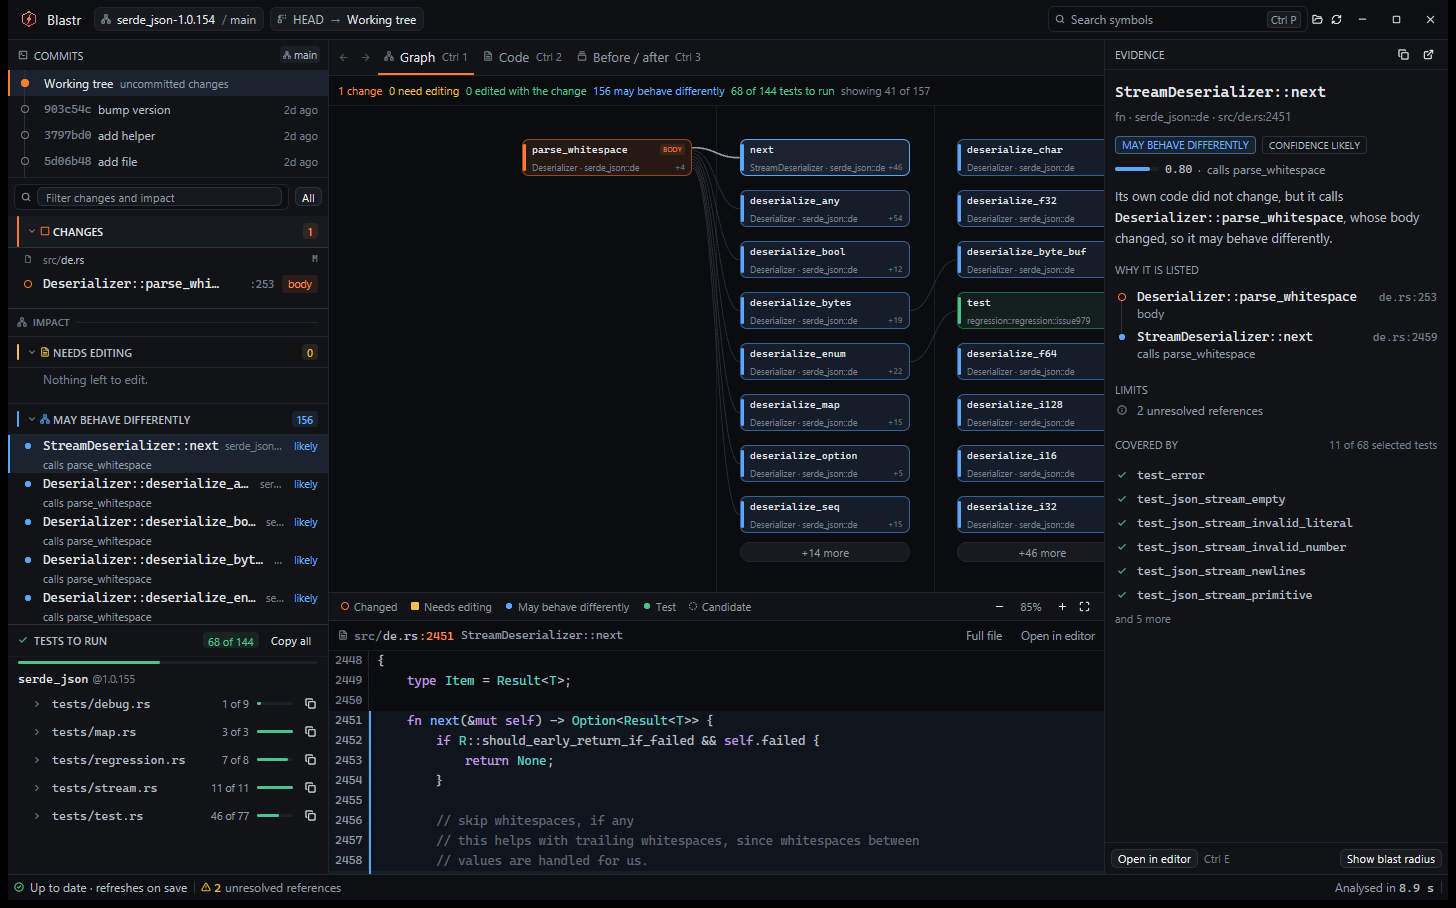
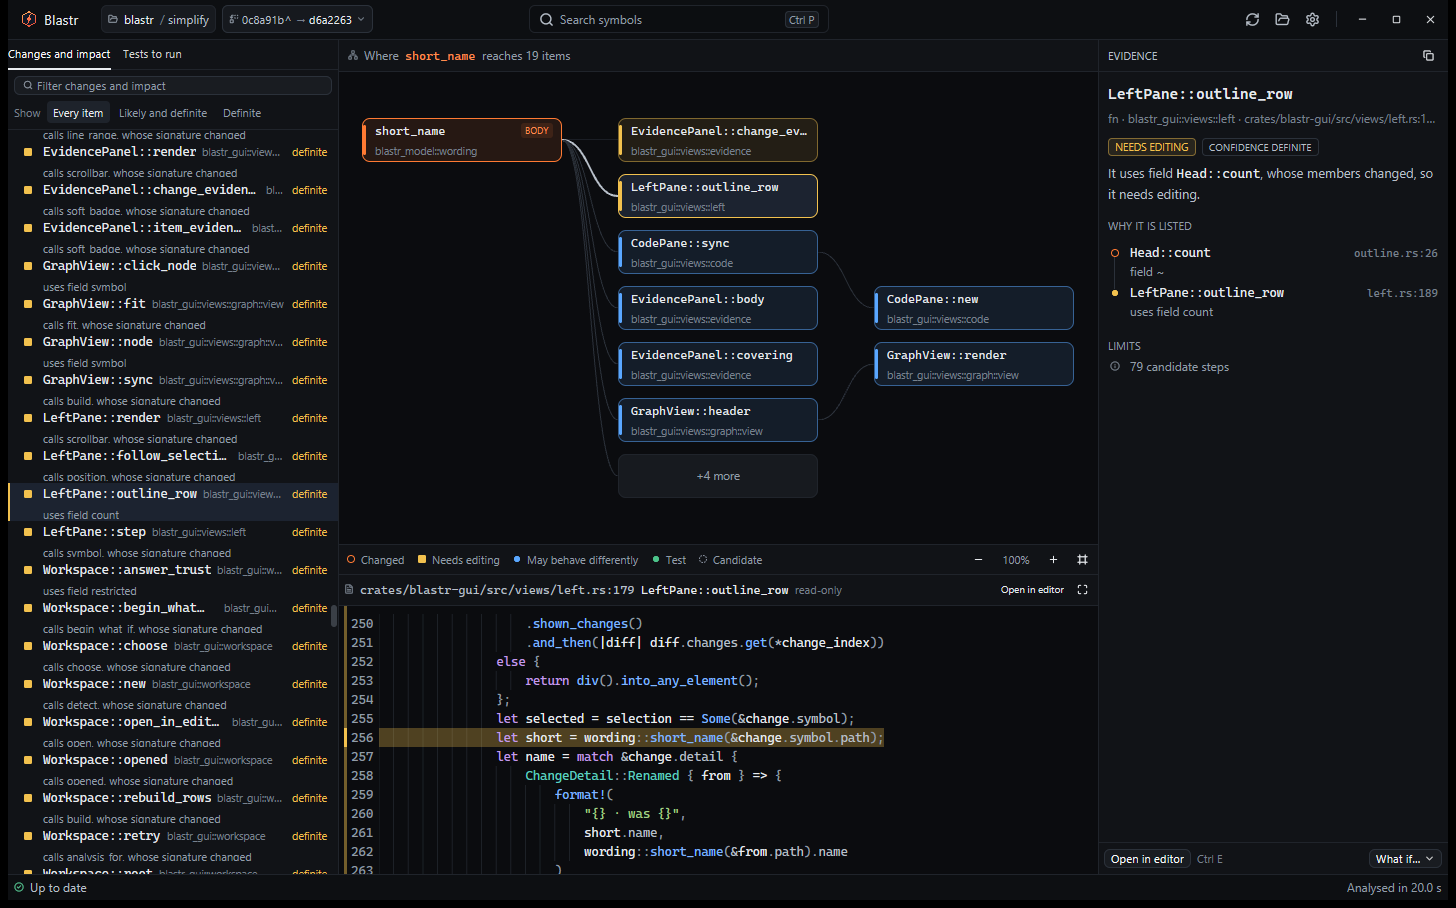
Show the source of a hypothetical change, which has no diff

diff --git a/crates/blastr-gui/src/views/code.rs b/crates/blastr-gui/src/views/code.rs
@@ -150,12 +150,12 @@ impl CodePane {
             let texts = cx.background_executor().spawn(async move {
                 let base = read_source(&root, &comparison.base, &old_file).unwrap_or_default();
                 let head = read_source(&root, &comparison.head, &file).unwrap_or_default();
-                patch(&old_file, &file, &base, &head)
+                (patch(&old_file, &file, &base, &head), head)
             });
             self.content = Content::Loading;
             self.read = cx.spawn_in(window, async move |this, cx| {
-                let patch = texts.await;
-                this.update(cx, |this, cx| {
+                let (patch, head) = texts.await;
+                this.update_in(cx, |this, window, cx| {
                     let files = DiffFile::parse(&patch).unwrap_or_default();
                     let path = files
                         .first()
@@ -170,6 +170,20 @@ impl CodePane {
                         span.start_line as usize,
                         span.end_line.max(span.start_line) as usize,
                     );
+                    // A hypothetical change has no diff: show its source.
+                    if files.is_empty() {
+                        let lines = (span.start_line, span.end_line);
+                        this.show_source(
+                            head,
+                            theme::CHANGED,
+                            lines,
+                            &[],
+                            span.start_line,
+                            window,
+                            cx,
+                        );
+                        return;
+                    }
                     self_decorate(this, path.clone(), side, start, end);
                     this.diff.update(cx, |state, cx| {
                         state.set_files(files, cx);
